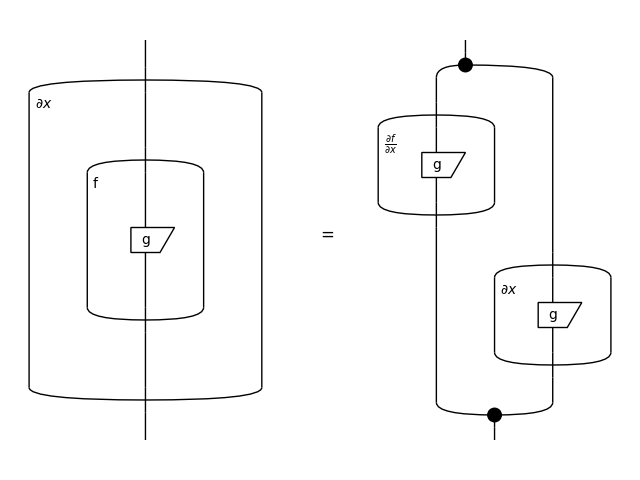
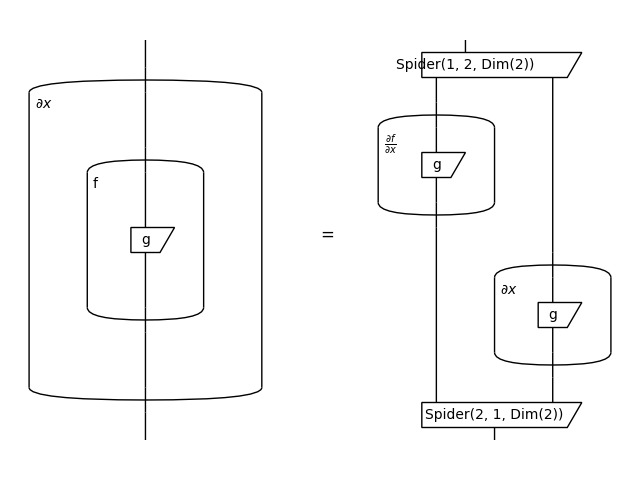
better equality

Changed region(s): [[0.6562, 0.8125, 0.9062, 0.9062], [0.625, 0.0938, 0.9062, 0.1875]]

diff --git a/discopy/frobenius.py b/discopy/frobenius.py
@@ -147,13 +147,13 @@ class Swap(compact.Swap, Box):
 class Spider(Box):
     """
     The spider with :code:`n_legs_in` and :code:`n_legs_out`
-    on a given atomic type, with some optional ``phase``.
+    on a given atomic type, with some optional phase as ``data``.
 
     Parameters:
         n_legs_in : The number of legs in.
         n_legs_out : The number of legs out.
         typ : The type of the spider.
-        phase : The phase of the spider.
+        data : The phase of the spider.
 
     Examples
     --------
@@ -161,17 +161,24 @@ class Spider(Box):
     >>> spider = Spider(1, 2, x)
     >>> assert spider.dom == x and spider.cod == x @ x
     """
-    def __init__(self, n_legs_in: int, n_legs_out: int, typ: Ty, phase=None,
+    draw_as_spider = True
+    color = "black"
+    drawing_name = ""
+
+    def __init__(self, n_legs_in: int, n_legs_out: int, typ: Ty, data=None,
                  **params):
-        self.typ, self.phase = typ, phase
         assert_isatomic(typ)
-        phase_str = "" if phase is None else ", {}".format(phase)
-        name = "Spider({}, {}, {}{})".format(
-            n_legs_in, n_legs_out, typ, phase_str)
+        self.typ = typ
+        data_str = "" if data is None else ", {}".format(data)
+        name = type(self).__name__ + "({}, {}, {}{})".format(
+            n_legs_in, n_legs_out, typ, data_str)
         dom, cod = typ ** n_legs_in, typ ** n_legs_out
-        params = dict(dict(
-            draw_as_spider=True, color="black", drawing_name=""), **params)
-        Box.__init__(self, name, dom, cod, **params)
+        Box.__init__(self, name, dom, cod, data=data, **params)
+
+    @property
+    def phase(self):
+        """ The phase of the spider. """
+        return self.data
 
     def __repr__(self):
         phase_repr = "" if self.phase is None else ", phase={}".format(

diff --git a/discopy/cat.py b/discopy/cat.py
@@ -324,9 +324,8 @@ class Arrow(Composable):
         return ' >> '.join(map(str, self.inside)) or "Id({})".format(self.dom)
 
     def __eq__(self, other):
-        return isinstance(other, Arrow) and all(
-            getattr(self, a) == getattr(other, a)
-            for a in ["inside", "dom", "cod"])
+        return isinstance(other, self.factory)\
+            and self.is_parallel(other) and self.inside == other.inside
 
     def __hash__(self):
         return hash(repr(self))
@@ -566,9 +565,12 @@ class Box(Arrow):
 
     def __eq__(self, other):
         if isinstance(other, type(self)):
-            attributes = ['name', 'dom', 'cod', 'data', 'is_dagger']
-            return all(
-                getattr(self, x) == getattr(other, x) for x in attributes)
+            try:
+                eq_data = bool(self.data == other.data)
+            except ValueError:  # F***ing NumPy equality returns an array.
+                eq_data = (self.data == other.data).all()
+            return self.name == other.name and self.is_parallel(other)\
+                and self.is_dagger == other.is_dagger and eq_data 
         return isinstance(other, self.factory) and other.inside == (self, )
 
     def __lt__(self, other):
@@ -830,7 +832,8 @@ class Functor:
         self.ar = ar if isinstance(ar, Mapping) else Dict(ar)
 
     def __eq__(self, other):
-        return self.ob == other.ob and self.ar == other.ar
+        return type(self) == type(other)\
+            and (self.ob, self.ar, self.cod) == (other.ob, other.ar, other.cod)
 
     def __repr__(self):
         cod_repr = "" if self.cod == type(self).cod else f", cod={self.cod}"

diff --git a/discopy/monoidal.py b/discopy/monoidal.py
@@ -153,7 +153,7 @@ class Ty(cat.Ob):
         return len(self) == 1
 
     def __eq__(self, other):
-        return isinstance(other, Ty) and self.inside == other.inside
+        return isinstance(other, self.factory) and self.inside == other.inside
 
     def __hash__(self):
         return hash(repr(self))
@@ -307,7 +307,7 @@ class Layer(cat.Box):
             yield box_or_typ
 
     def __eq__(self, other):
-        return isinstance(other, Layer) and tuple(self) == tuple(other)
+        return isinstance(other, type(self)) and tuple(self) == tuple(other)
 
     def __repr__(self):
         return factory_name(type(self))\
@@ -627,7 +627,7 @@ class Diagram(cat.Arrow, Whiskerable):
                     self = self.factory(inside, self.dom, self.cod)
                     keep_on_going = True
                     break
-                except cat.AxiomError:
+                except (cat.AxiomError, NotImplementedError):
                     continue
             if not keep_on_going:
                 break
@@ -829,7 +829,7 @@ class Box(cat.Box, Diagram):
     def __eq__(self, other):
         if isinstance(other, Box):
             return cat.Box.__eq__(self, other)
-        return isinstance(other, Diagram)\
+        return isinstance(other, self.factory)\
             and other.inside == (self.layer_factory.cast(self), )
 
     def __hash__(self):

diff --git a/discopy/quantum/zx.py b/discopy/quantum/zx.py
@@ -45,7 +45,7 @@ class Diagram(frobenius.Diagram):
 
     @staticmethod
     def permutation(perm, dom=None):
-        dom = Id(len(perm)) if dom is None else dom
+        dom = PRO(len(perm)) if dom is None else dom
         return frobenius.Diagram.permutation.__func__(Diagram, perm, dom)
 
     @staticmethod
@@ -253,8 +253,8 @@ class Spider(frobenius.Spider, Box):
         return f"{factory_str}({len(self.dom)}, {len(self.cod)}{phase_str})"
 
     def subs(self, *args):
-        data = cat.rsubs(self.data, *args)
-        return type(self)(len(self.dom), len(self.cod), phase=data)
+        phase = cat.rsubs(self.phase, *args)
+        return type(self)(len(self.dom), len(self.cod), phase=phase)
 
     def grad(self, var, **params):
         if var not in self.free_symbols:

diff --git a/discopy/tensor.py b/discopy/tensor.py
@@ -546,17 +546,6 @@ class Box(frobenius.Box, Diagram):
             func=lambda x: getattr(x, "diff", lambda _: 0)(var),
             drawing_name="$\\partial {}$".format(var))
 
-    def __eq__(self, other):
-        if isinstance(other, Box):
-            eq_array = other.array is None if self.array is None\
-                else (self.array == other.array).all()
-            return eq_array and cat.Box.__eq__(self, other)
-        return isinstance(other, Diagram)\
-            and other.inside == (self.layer_factory.cast(self), )
-
-    def __hash__(self):
-        return hash((self.name, self.dom, self.cod, str(self.array)))
-
 
 class Cup(frobenius.Cup, Box):
     """
